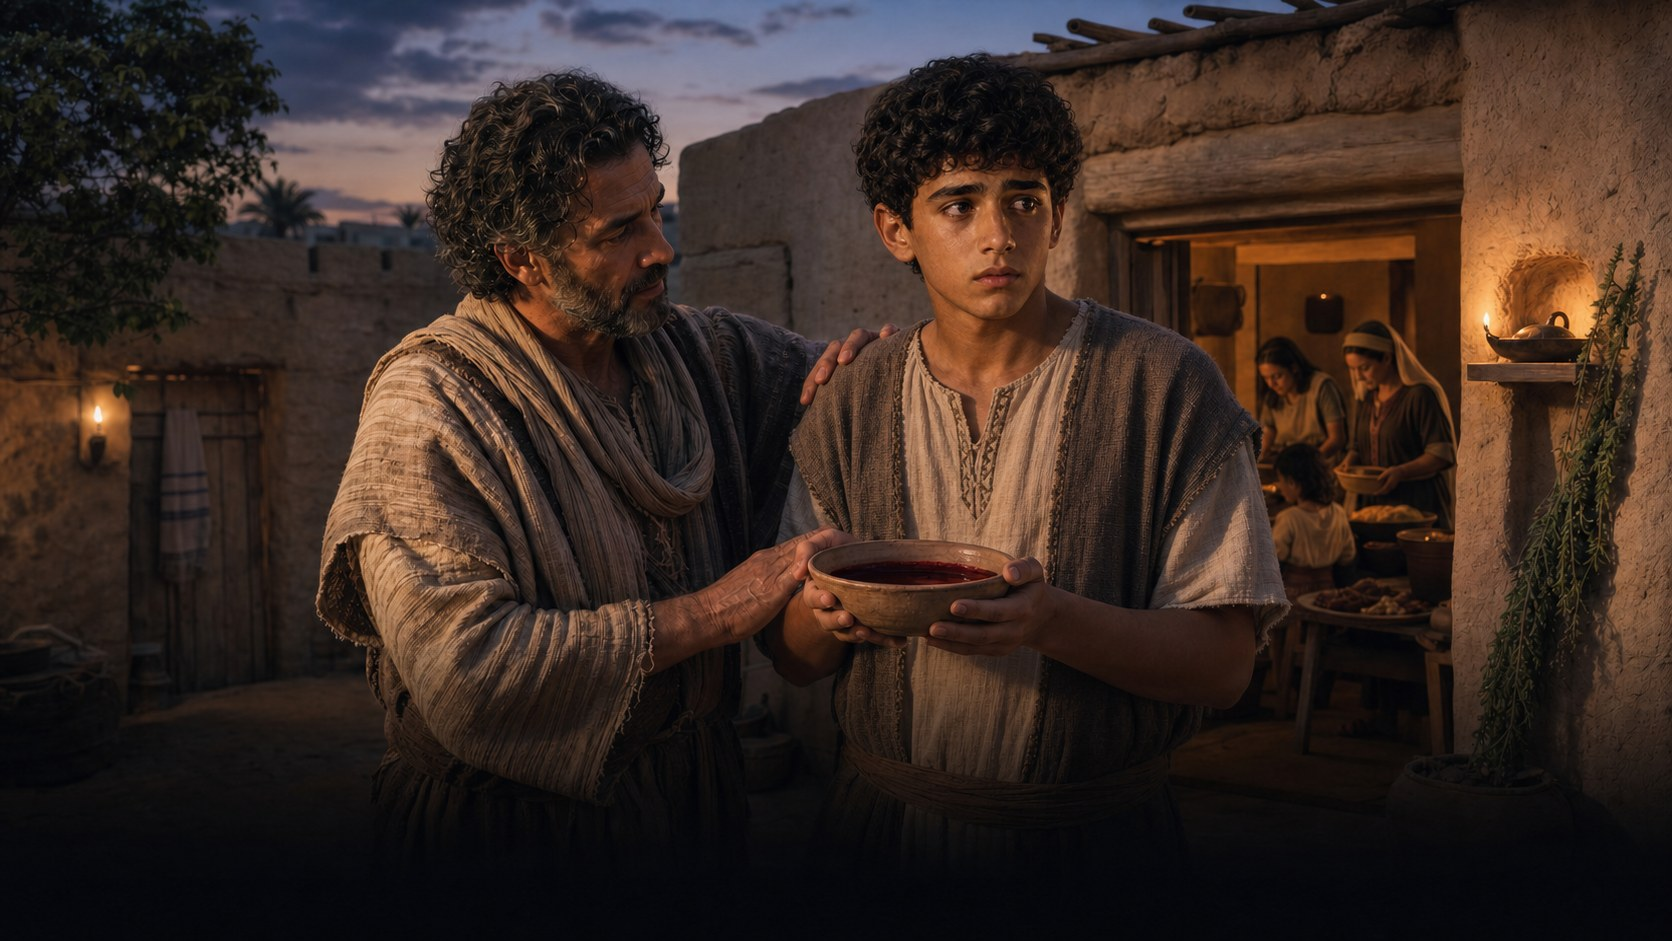
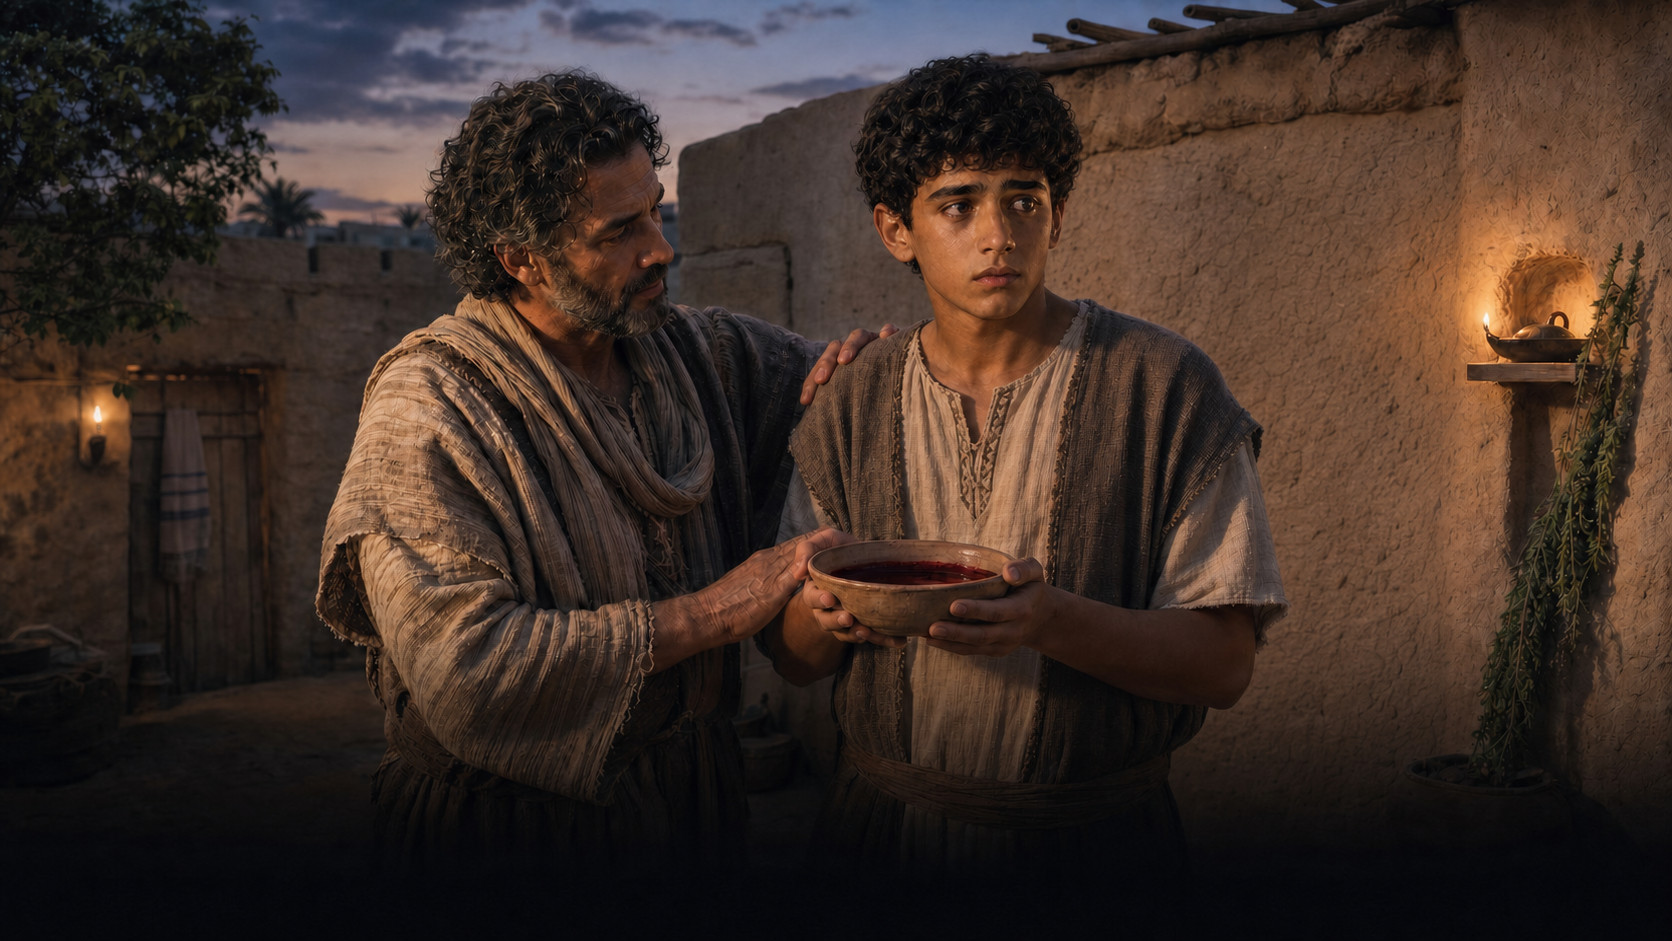
fix: 유월절 첫째 아들 장면 배경 이미지 업데이트

diff --git a/src/main/resources/templates/game/bible-story.html b/src/main/resources/templates/game/bible-story.html
@@ -1,7 +1,7 @@
 <!DOCTYPE html>
 <html xmlns:th="http://www.thymeleaf.org" lang="ko">
 <head
-    th:replace="~{fragments/head :: head('어린양의 약속 | ElSeeker', true, '/css/game/bible-story.css?v=7.0')}"
+    th:replace="~{fragments/head :: head('어린양의 약속 | ElSeeker', true, '/css/game/bible-story.css?v=7.1')}"
     th:with="robotsContent='noindex',
                  pageDescription='유월절의 밤을 직접 준비하고, 바다를 건너고, 만나를 거두며 십자가와 부활에서 그 의미를 발견하는 성경 스토리 체험입니다.'">
 </head>

diff --git a/src/main/resources/static/css/game/bible-story.css b/src/main/resources/static/css/game/bible-story.css
@@ -483,7 +483,7 @@ body.bible-story-page .site-header {
 .story-backdrop[data-theme="door"][data-phase="firstborn-bowl"] .story-backdrop-art {
     background:
         linear-gradient(180deg, rgba(4, 8, 14, 0.02), rgba(3, 6, 11, 0.42)),
-        #151c27 url("/images/game/bible-story-firstborn-blood-bowl.jpg?v=2") center / cover no-repeat;
+        #151c27 url("/images/game/bible-story-firstborn-blood-bowl.jpg?v=3") center / cover no-repeat;
 }
 
 .story-backdrop[data-theme="door"][data-phase="anna-lamp"] .story-backdrop-art {
